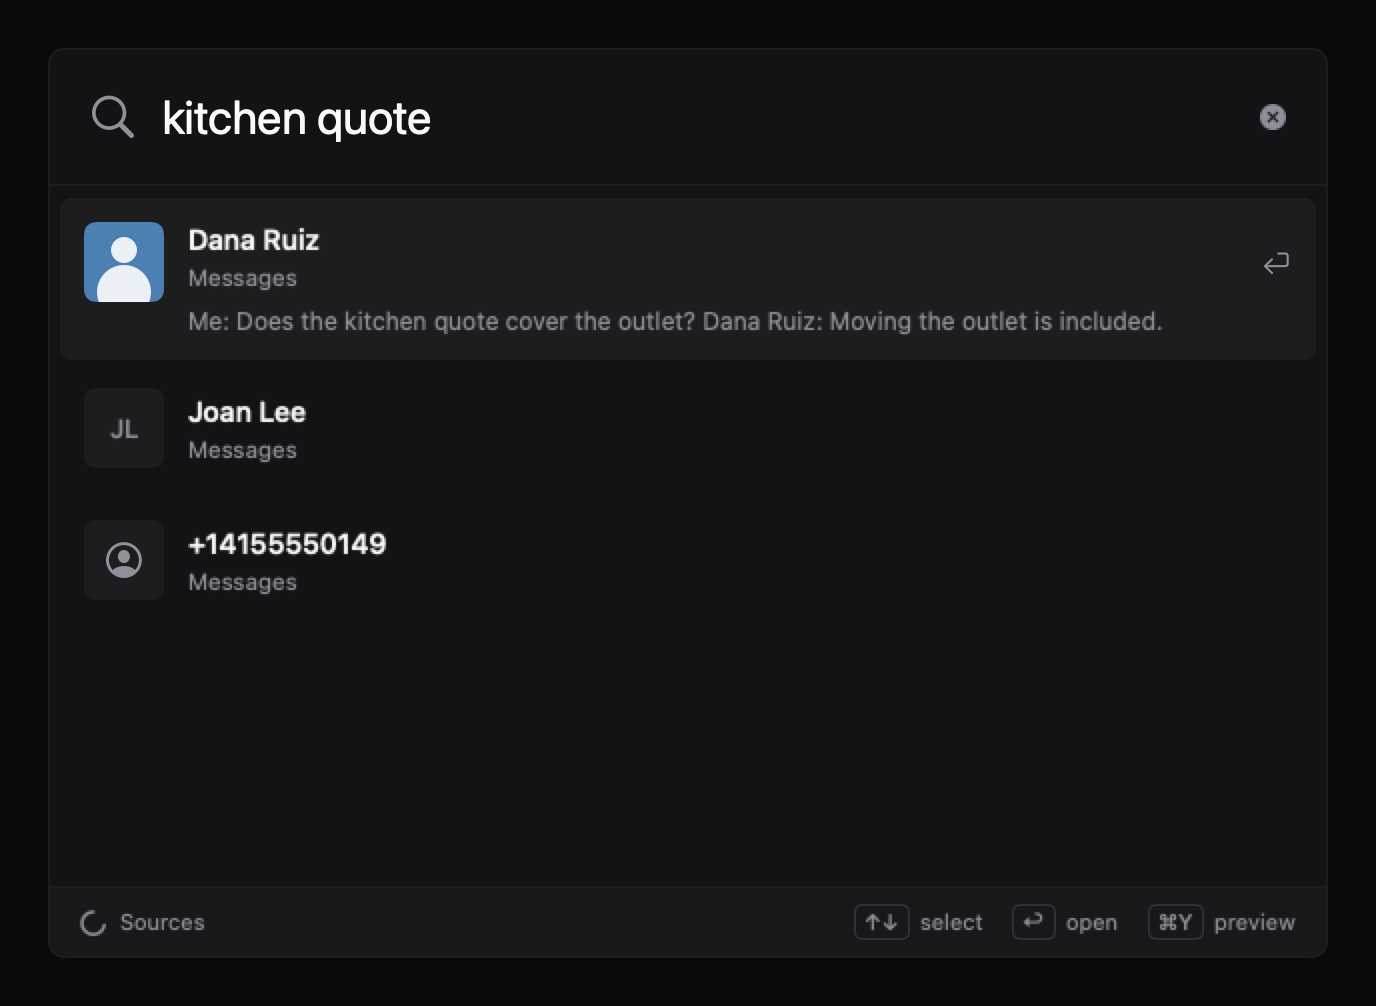
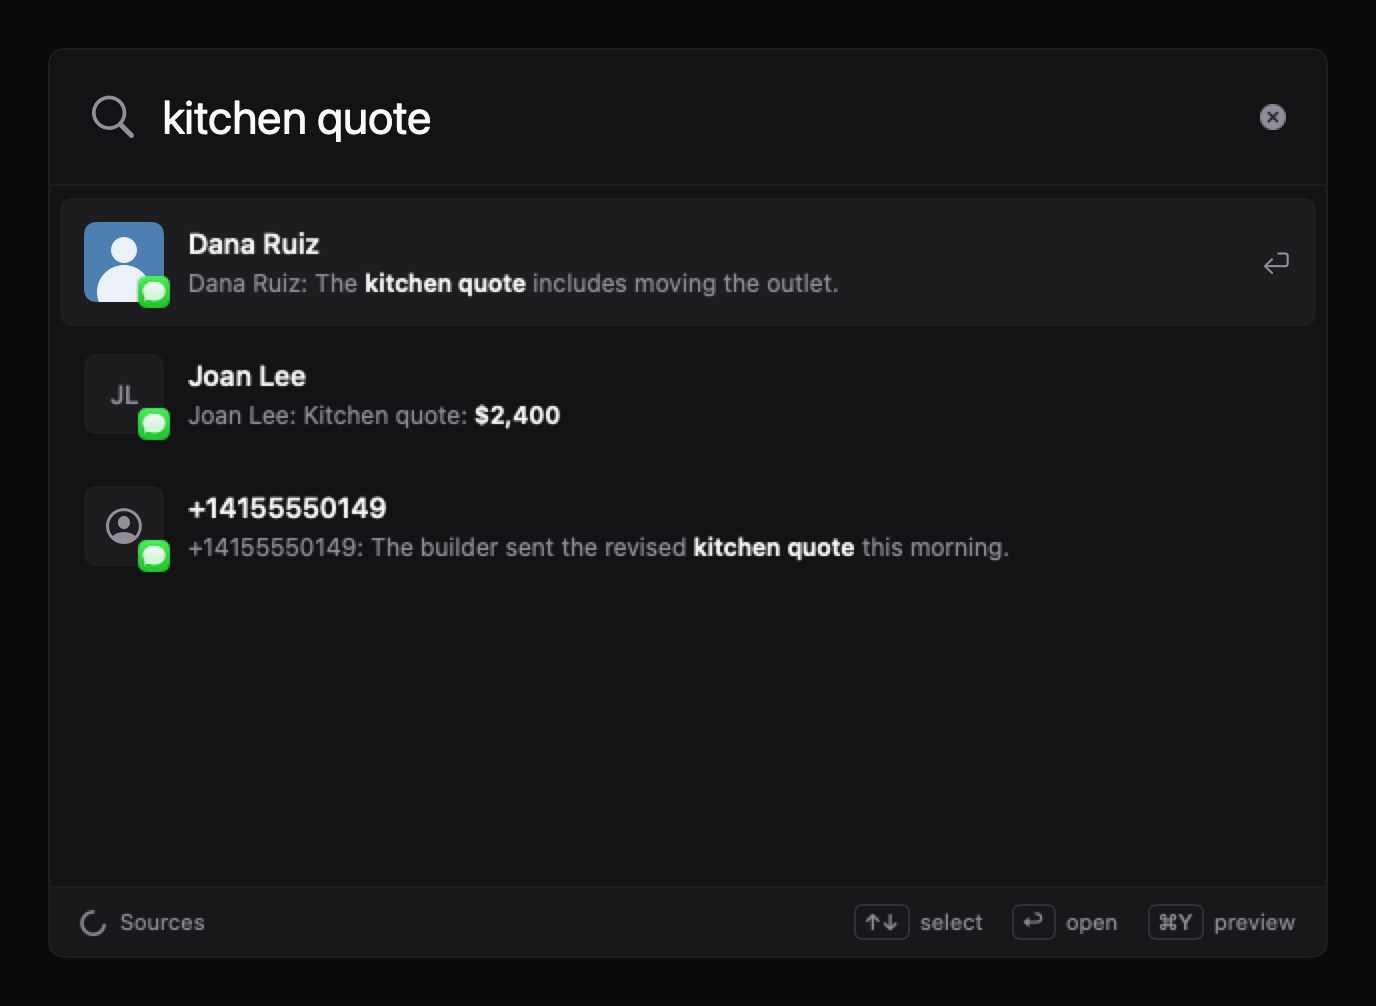
Show matching snippets on every search result (#47)
* Show matching snippets on every search result

* Keep search excerpts readable and isolate source icons

Changed region(s): [[0.0938, 0.2157, 0.8438, 0.339], [0.0625, 0.493, 0.75, 0.5855], [0.0625, 0.3698, 0.4062, 0.4622]]

diff --git a/mac/App/Sources/SearchView.swift b/mac/App/Sources/SearchView.swift
@@ -74,7 +74,7 @@ struct SearchView: View {
                 ScrollView {
                     LazyVStack(spacing: 2) {
                         ForEach(Array(model.results.enumerated()), id: \.element.id) { index, suggestion in
-                            SearchResultRow(suggestion: suggestion, contacts: model.app.contacts, selected: model.selectedIndex == index) {
+                            SearchResultRow(suggestion: suggestion, query: model.query, contacts: model.app.contacts, selected: model.selectedIndex == index) {
                                 if model.open(suggestion) { finish() }
                             } reveal: {
                                 if model.open(suggestion, reveal: true) { finish() }
@@ -181,19 +181,25 @@ private struct SearchResultRow: View {
     let open: () -> Void
     let reveal: () -> Void
     let preview: () -> Void
+    private let queryTerms: [String]
     @State private var thumbnail: NSImage?
 
-    init(suggestion: Suggestion, contacts: ContactDirectory, selected: Bool, open: @escaping () -> Void, reveal: @escaping () -> Void, preview: @escaping () -> Void) {
+    init(suggestion: Suggestion, query: String, contacts: ContactDirectory, selected: Bool, open: @escaping () -> Void, reveal: @escaping () -> Void, preview: @escaping () -> Void) {
         self.suggestion = suggestion
         self.contacts = contacts
         self.selected = selected
         self.open = open
         self.reveal = reveal
         self.preview = preview
+        let words = query.components(separatedBy: CharacterSet.alphanumerics.inverted).filter { !$0.isEmpty }
+        queryTerms = [query] + words
         _thumbnail = State(initialValue: Thumbnails.cache[suggestion.item.id])
     }
 
     var body: some View {
+        let source = suggestion.unit.text.isEmpty ? suggestion.snippet : suggestion.unit.text
+        let evidence = SuggestionEvidence(suggestion, terms: queryTerms, style: .search,
+                                          sourceText: contacts.displayText(source, for: suggestion.item))
         Button(action: open) {
             HStack(alignment: .top, spacing: 12) {
                 ZStack {
@@ -208,23 +214,24 @@ private struct SearchResultRow: View {
                 }
                 .frame(width: 40, height: 40)
                 .clipShape(RoundedRectangle(cornerRadius: Theme.controlRadius))
+                .overlay(alignment: .bottomTrailing) {
+                    ResultSourceIcon(item: suggestion.item).offset(x: 6, y: 6)
+                }
                 VStack(alignment: .leading, spacing: 4) {
                     Text(contacts.presentation(for: suggestion.item)?.title ?? suggestion.item.title).font(.system(size: 14, weight: .medium))
                         .foregroundStyle(Theme.foreground).lineLimit(1).truncationMode(.middle)
-                    Text(location).font(.system(size: 11.5)).foregroundStyle(Theme.mutedForeground)
-                        .lineLimit(1).truncationMode(.middle)
-                    if selected, let line = suggestion.line {
-                        QuotedLine(line: contacts.displayLine(line, for: suggestion.item)).padding(.top, 4)
-                    } else if selected, suggestion.item.kind != .image, !suggestion.snippet.isEmpty {
-                        Text(contacts.displaySnippet(for: suggestion)).font(.system(size: 12)).foregroundStyle(Theme.mutedForeground)
-                            .lineLimit(2).padding(.top, 3)
+                    if !evidence.segments.isEmpty {
+                        Text(excerpt(evidence)).font(.system(size: 12)).foregroundStyle(Theme.mutedForeground)
+                            .lineSpacing(2).lineLimit(2).fixedSize(horizontal: false, vertical: true)
+                    }
+                    if let location {
+                        Text(location).font(.system(size: 11)).foregroundStyle(Theme.mutedForeground)
+                            .lineLimit(1).truncationMode(.middle)
                     }
                 }
                 .frame(maxWidth: .infinity, minHeight: 40, alignment: .leading)
-                if selected {
-                    Image(systemName: "return").font(.system(size: 12)).foregroundStyle(Theme.mutedForeground)
-                        .frame(height: 40)
-                }
+                Image(systemName: "return").font(.system(size: 12)).foregroundStyle(Theme.mutedForeground)
+                    .frame(width: 16, height: 40).opacity(selected ? 1 : 0).accessibilityHidden(true)
             }
             .padding(12)
             .background(RoundedRectangle(cornerRadius: Theme.controlRadius).fill(selected ? Theme.muted : .clear))
@@ -244,15 +251,23 @@ private struct SearchResultRow: View {
         }
     }
 
-    private var location: String {
-        var label: String
-        switch suggestion.item.source {
-        case .file: label = (suggestion.item.folder as NSString).abbreviatingWithTildeInPath
-        case .notes: label = "Apple Notes"
-        case .messages: label = "Messages"
+    private func excerpt(_ evidence: SuggestionEvidence) -> AttributedString {
+        let segments = suggestion.line.map { contacts.displayLine($0, for: suggestion.item).segments } ?? evidence.segments
+        return segments.reduce(into: AttributedString()) { text, segment in
+            var run = AttributedString(segment.text)
+            if segment.emphasized {
+                run.font = .system(size: 12, weight: .semibold)
+                run.foregroundColor = Theme.foreground
+            }
+            text += run
         }
-        if let page = suggestion.unit.locator.page { label += " · page \(page)" }
-        return label
+    }
+
+    private var location: String? {
+        guard suggestion.item.source == .file else { return nil }
+        var location = (suggestion.item.folder as NSString).abbreviatingWithTildeInPath
+        if let page = suggestion.unit.locator.page { location += " · page \(page)" }
+        return location
     }
 
     private var icon: String {

diff --git a/mac/Packages/AppearsKit/Sources/AppearsCore/SuggestionEvidence.swift b/mac/Packages/AppearsKit/Sources/AppearsCore/SuggestionEvidence.swift
@@ -4,11 +4,13 @@ import NaturalLanguage
 /// Presentation evidence from the retrieved source, never a generated explanation.
 /// Does not change ranking or confidence, or retain the context that found the item.
 public struct SuggestionEvidence: Sendable {
+    public enum Style: Sendable { case related, search }
+
     public let segments: [MatchedLine.Segment]
     public let isQuotation: Bool
     public let metadata: String
 
-    public init(_ suggestion: Suggestion, terms: [String] = []) {
+    public init(_ suggestion: Suggestion, terms: [String] = [], style: Style = .related, sourceText: String? = nil) {
         let parts = suggestion.reason.components(separatedBy: " · ")
         let reason = parts.first ?? ""
         let specific = !reason.isEmpty && reason != "Related" && reason != "Looks related"
@@ -16,6 +18,14 @@ public struct SuggestionEvidence: Sendable {
         if suggestion.item.source == .notes { metadata.insert("Notes", at: 0) }
         if suggestion.item.source == .messages { metadata.insert("Messages", at: 0) }
         self.metadata = metadata.joined(separator: " · ")
+
+        // Search rows always show their answer, regardless of keyboard selection.
+        // Keep the original segments and concealed clipboard flag on suggestion.line.
+        if style == .search, let line = suggestion.line {
+            segments = line.segments
+            isQuotation = true
+            return
+        }
 
         var matched = terms
         if reason.hasPrefix("Mentions ") { matched.insert(String(reason.dropFirst(9)), at: 0) }
@@ -25,8 +35,8 @@ public struct SuggestionEvidence: Sendable {
         let keys = Array(Set(matched.map(Self.clean).filter { $0.count >= 3 && $0.count <= 256 })).sorted()
 
         // An answer has its own selected-row treatment, including concealed clipboard handling.
-        let source = suggestion.unit.text.isEmpty ? suggestion.snippet : suggestion.unit.text
-        let sentences = Self.sentences(String(source.prefix(16_000)))
+        let source = sourceText ?? (suggestion.unit.text.isEmpty ? suggestion.snippet : suggestion.unit.text)
+        let sentences = Self.sentences(String(source.prefix(16_000)), allowShort: style == .search && suggestion.unit.kind != .image)
         var best: (text: String, hits: Int)?
         for text in sentences {
             let hits = keys.filter { !Self.ranges(of: $0, in: text).isEmpty }.count
@@ -38,6 +48,10 @@ public struct SuggestionEvidence: Sendable {
             passage = nil
         } else if let best, best.hits > 0 {
             passage = Self.excerpt(best.text, terms: keys)
+        } else if style == .search, suggestion.unit.kind != .image {
+            // A name match must not displace the actual message or note. Short messages
+            // are useful evidence too; only OCR needs the stricter readability filter.
+            passage = best.map { Self.excerpt($0.text, terms: keys) }
         } else if suggestion.unit.kind != .image, !specific {
             // A meaning-only match still has a retrieved passage the person can judge.
             passage = Self.sentences(suggestion.snippet.isEmpty ? source : suggestion.snippet).first.map { Self.excerpt($0, terms: []) }
@@ -54,7 +68,7 @@ public struct SuggestionEvidence: Sendable {
             .trimmingCharacters(in: .whitespacesAndNewlines)
     }
 
-    private static func sentences(_ text: String) -> [String] {
+    private static func sentences(_ text: String, allowShort: Bool = false) -> [String] {
         text.components(separatedBy: .newlines).flatMap { paragraph -> [String] in
             let tokenizer = NLTokenizer(unit: .sentence)
             tokenizer.string = paragraph
@@ -62,8 +76,12 @@ public struct SuggestionEvidence: Sendable {
             tokenizer.enumerateTokens(in: paragraph.startIndex..<paragraph.endIndex) { range, _ in
                 let sentence = clean(String(paragraph[range]))
                 let visible = sentence.filter { !$0.isWhitespace }
+                // Emoji-only replies are source text too, unlike punctuation/layout noise.
+                let hasEmoji = visible.unicodeScalars.contains { $0.properties.isEmojiPresentation || $0.value == 0xFE0F }
                 // Discard OCR fragments and mostly numeric/layout noise.
-                if sentence.count >= 18, sentence.split(separator: " ").count >= 3,
+                if allowShort && (visible.contains { $0.isLetter || $0.isNumber } || hasEmoji) {
+                    result.append(sentence)
+                } else if sentence.count >= 18, sentence.split(separator: " ").count >= 3,
                    Double(visible.filter(\.isLetter).count) / Double(max(visible.count, 1)) >= 0.5 {
                     result.append(sentence)
                 }

diff --git a/mac/Tools/Snapshots/main.swift b/mac/Tools/Snapshots/main.swift
@@ -207,14 +207,19 @@ let weaker = [
         .init(id: "joan", name: "Joan Lee", addresses: ["joan@example.test"]),
     ])
     let contactModel = AppModel(contacts: ContactDirectory(snapshot: contactFixture))
+    let messagePassages = [
+        "Me: Did the builder get back to you?\n+14155550142: The kitchen quote includes moving the outlet.",
+        "joan@example.test: Kitchen quote: $2,400.",
+        "+14155550149: The builder sent the revised kitchen quote this morning. It includes the cabinets and the new outlets by the window.",
+    ]
     let contactResults = ["+14155550142", "joan@example.test", "+14155550149"].enumerated().map { index, address in
         let item = Item(id: Int64(101 + index), source: .messages, path: "messages:\(index)", kind: .message,
                         title: address, size: 30, created: Date(), modified: Date(), lastUsed: nil,
                         message: .init(rowID: Int64(index), guid: "fixture-\(index)", chatID: Int64(index), conversationURL: nil))
-        let text = "Me: Does the kitchen quote cover the outlet?\n\(address): Moving the outlet is included."
-        return Suggestion(item: item, unit: Unit(kind: .text, locator: .whole, text: text),
-                          reason: "Related · from October 2026", snippet: text.replacingOccurrences(of: "\n", with: " "),
-                          score: 1, confidence: 0.8, features: features)
+        return Suggestion(item: item, unit: Unit(kind: .text, locator: .whole, text: messagePassages[index]),
+                          reason: "Related · from October 2026", snippet: messagePassages[index],
+                          score: 1, confidence: 0.8, features: features,
+                          line: index == 1 ? MatchedLine(segments: [.init("joan@example.test: Kitchen quote: "), .init("$2,400", emphasized: true)]) : nil)
     }
     var contactStatus = EngineStatus()
     contactStatus.ready = true
@@ -227,6 +232,14 @@ let weaker = [
     let contactSearch = SearchModel(app: contactModel)
     contactSearch.showForSnapshot(query: "kitchen quote", results: contactResults)
     render(SearchView(model: contactSearch, close: {}, finish: {}, openSettings: {}, resize: { _ in }), "search-contacts", width: 640)
+    let kitchenNote = Item(id: 110, source: .notes, path: "notes:demo-kitchen", kind: .note, title: "Kitchen walkthrough",
+                    size: 1, created: Date(), modified: Date(), lastUsed: nil)
+    let noteResult = Suggestion(item: kitchenNote, unit: Unit(kind: .text, locator: .whole, text: "Ask Dana to include the kitchen outlet in the revised quote."),
+                                reason: "Mentions Dana Ruiz", snippet: "Ask Dana to include the kitchen outlet in the revised quote.",
+                                score: 0.7, confidence: 0.7, features: features)
+    contactSearch.showForSnapshot(query: "kitchen quote", results: contactResults + [noteResult, suggestions[1]])
+    render(SearchView(model: contactSearch, close: {}, finish: {}, openSettings: {}, resize: { _ in }), "search-excerpts", width: 640)
+    contactSearch.showForSnapshot(query: "kitchen quote", results: contactResults)
     contactSearch.sourcePreview = contactResults[0]
     render(SearchView(model: contactSearch, close: {}, finish: {}, openSettings: {}, resize: { _ in }), "search-contact-preview", width: 640)
     var status = EngineStatus()

diff --git a/mac/Packages/AppearsKit/Tests/AppearsCoreTests/SuggestionEvidenceTests.swift b/mac/Packages/AppearsKit/Tests/AppearsCoreTests/SuggestionEvidenceTests.swift
@@ -71,4 +71,40 @@ import Testing
         #expect(SuggestionEvidence(item, terms: ["password"]).segments.isEmpty)
         #expect(item.line?.concealed == true)
     }
+
+    @Test func searchShowsShortMatchingMessagesInsteadOfTheContactReason() {
+        let text = "Me: Any update?\nDana: Paid final rent.\nMe: Thanks!"
+        let result = SuggestionEvidence(suggestion(text, reason: "Mentions Dana Ruiz · from April 2025", snippet: "Me: Any update?"),
+                                        terms: ["final", "rent"], style: .search)
+        #expect(result.isQuotation)
+        #expect(result.segments.map(\.text).joined() == "Dana: Paid final rent.")
+        #expect(result.segments.filter(\.emphasized).map(\.text) == ["final", "rent"])
+    }
+
+    @Test func searchShowsMeaningOnlyPassagesEvenWithASpecificNameReason() {
+        let result = SuggestionEvidence(suggestion("Paid yesterday.", reason: "Mentions Dana Ruiz"), terms: ["rent"], style: .search)
+        #expect(result.isQuotation)
+        #expect(result.segments.map(\.text).joined() == "Paid yesterday.")
+        let answer = MatchedLine(segments: [.init("Password: "), .init("trout-meadow-88", emphasized: true)], concealed: true)
+        let item = suggestion("Password: trout-meadow-88", line: answer)
+        #expect(SuggestionEvidence(item, style: .search).segments == answer.segments)
+        #expect(item.line?.concealed == true)
+    }
+
+    @Test func searchStillRequiresCleanMatchingOCRForImages() {
+        let text = "Electrical, 6 new outlets $1,650"
+        #expect(SuggestionEvidence(suggestion(text, image: true), terms: ["outlets"], style: .search).isQuotation)
+        #expect(SuggestionEvidence(suggestion(text, image: true), terms: ["plumbing"], style: .search).segments.isEmpty)
+        #expect(SuggestionEvidence(suggestion("01 020 300 450 678 900 outlets", image: true), terms: ["outlets"], style: .search).segments.isEmpty)
+    }
+
+    @Test func searchSkipsPunctuationNoiseButKeepsShortRepliesAndValues() {
+        let result = SuggestionEvidence(suggestion("—\n...\nPaid yesterday."), style: .search)
+        #expect(result.segments.map(\.text).joined() == "Paid yesterday.")
+        #expect(SuggestionEvidence(suggestion("—\n..."), style: .search).segments.isEmpty)
+        for text in ["1200", "👍", "❤"] {
+            let reply = SuggestionEvidence(suggestion(text), style: .search)
+            #expect(reply.segments.map(\.text).joined() == text)
+        }
+    }
 }

diff --git a/mac/App/Sources/ResultSourceIcon.swift b/mac/App/Sources/ResultSourceIcon.swift
@@ -1,0 +1,50 @@
+import AppKit
+import AppearsCore
+import SwiftUI
+
+/// Local app icons identify a result's source without taking the excerpt's line.
+@MainActor
+struct ResultSourceIcon: View {
+    private let icon: NSImage?
+    private let name: String
+
+    init(item: Item) {
+        let workspace = NSWorkspace.shared
+        let application: URL?
+        switch item.source {
+        case .messages: application = workspace.urlForApplication(withBundleIdentifier: "com.apple.MobileSMS")
+        case .notes: application = workspace.urlForApplication(withBundleIdentifier: "com.apple.Notes")
+        case .file: application = item.fileURL.flatMap { workspace.urlForApplication(toOpen: $0) }
+        }
+        let url = application ?? workspace.urlForApplication(withBundleIdentifier: "com.apple.finder")
+        icon = url.map { Self.image(for: $0) }
+        switch item.source {
+        case .messages: name = "Messages"
+        case .notes: name = "Notes"
+        case .file: name = url.map { FileManager.default.displayName(atPath: $0.path) } ?? "Finder"
+        }
+    }
+
+    var body: some View {
+        Group {
+            if let icon {
+                Image(nsImage: icon).resizable().scaledToFit()
+            } else {
+                Image(systemName: "app").resizable().scaledToFit()
+            }
+        }
+        .frame(width: 18, height: 18)
+        .padding(2)
+        .help(name)
+        .accessibilityLabel(name)
+    }
+
+    private static var cache: [URL: NSImage] = [:]
+
+    private static func image(for application: URL) -> NSImage {
+        if let icon = cache[application] { return icon }
+        let icon = NSWorkspace.shared.icon(forFile: application.path)
+        cache[application] = icon
+        return icon
+    }
+}
